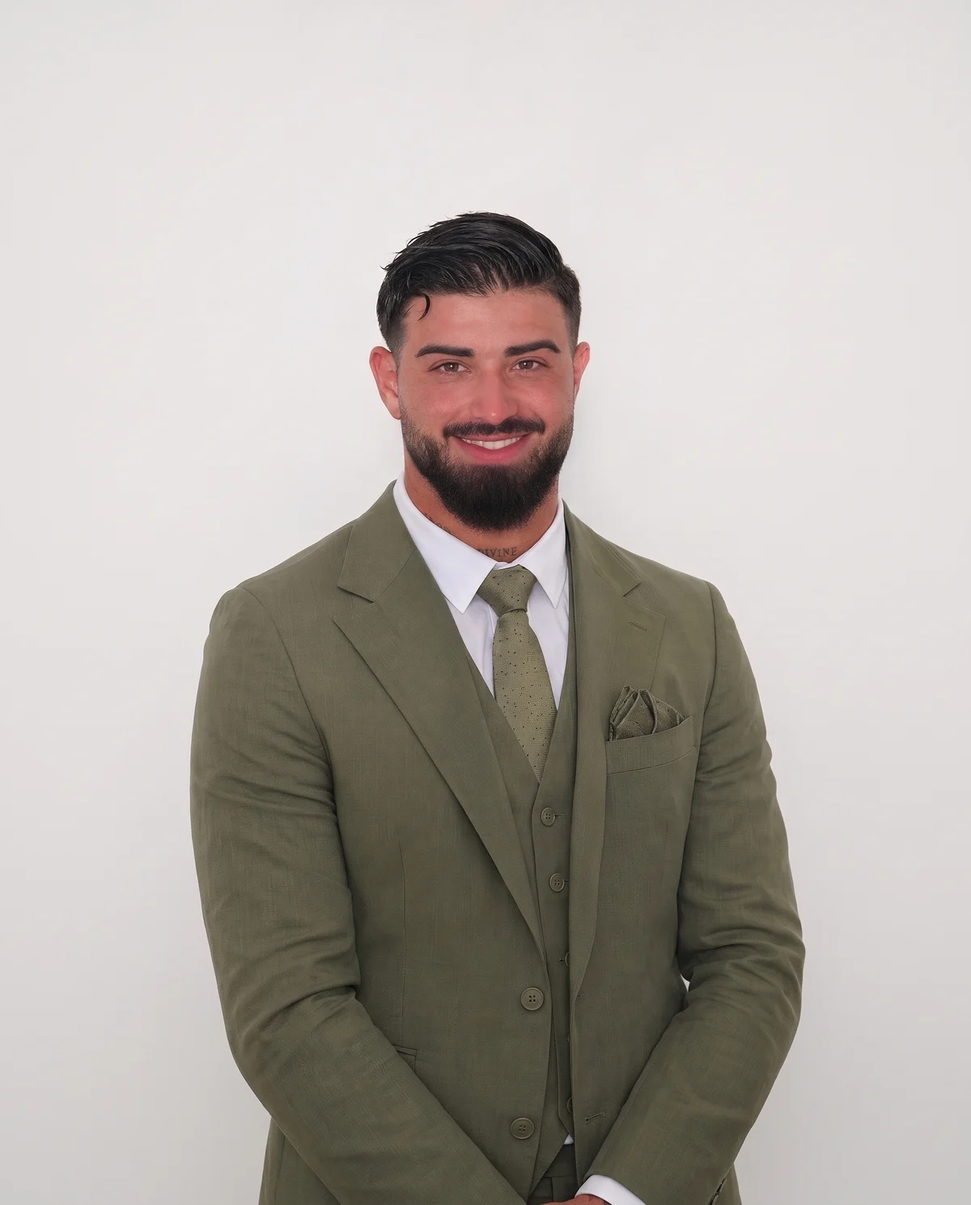
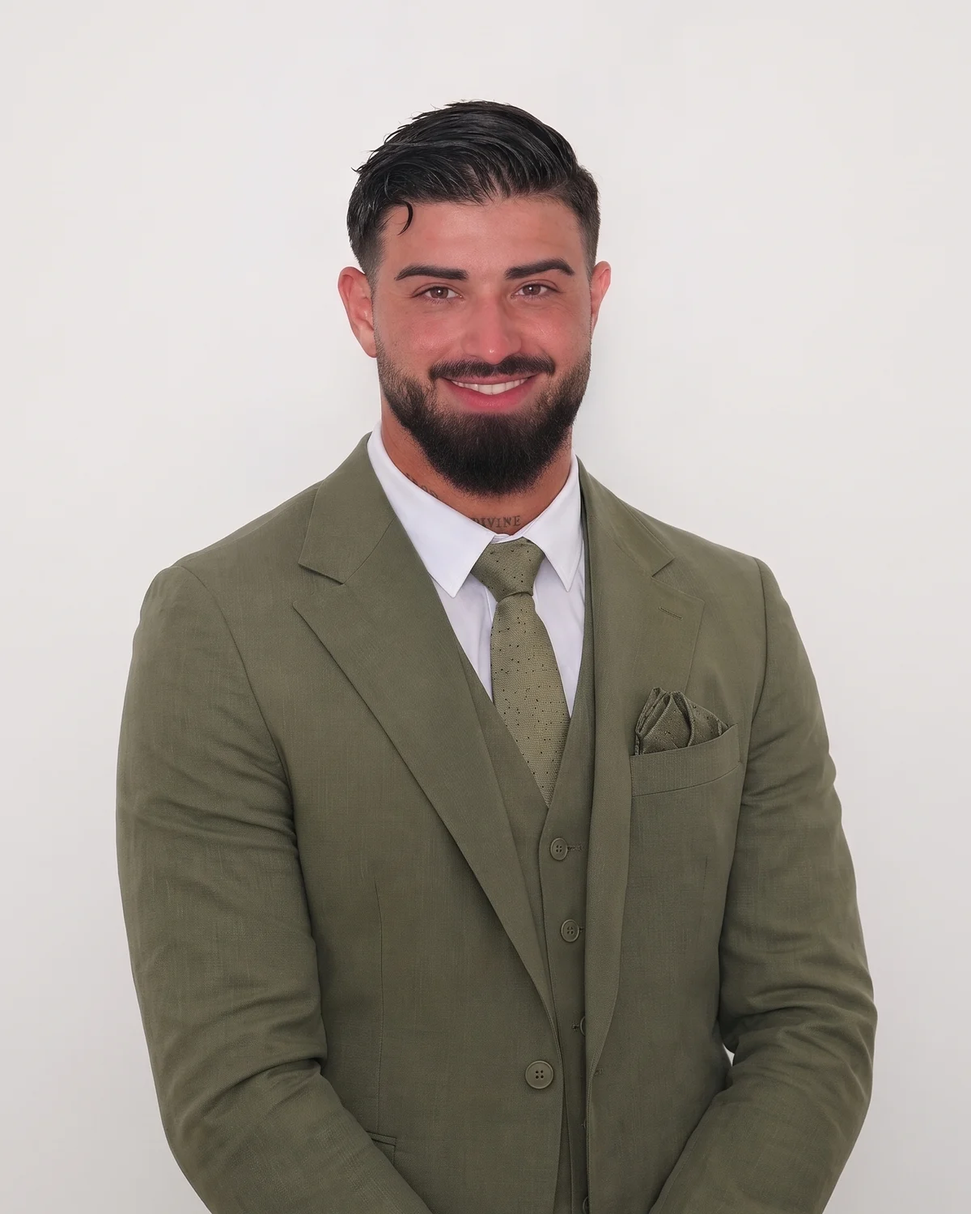
Abschlussblock mit Foto, Ästhetik-Bilder, Über mich ausgebaut, «Ehrliche Zahlen statt Garantien»
Claude-Session: https://claude.ai/code/session_01R2qRtXccSh7gxv6BgYz1Gu

diff --git a/faq.html b/faq.html
@@ -51,10 +51,10 @@
       <figure class="ph-fig"><img src="img/faq.webp" alt="Rosafarbene Pflegeprodukte und ein Pinsel auf hellem Untergrund" width="1600" height="1067" fetchpriority="high"><figcaption>Symbolbild</figcaption></figure>
     </div>
   </div>
-</section><span id="mehr"></span><section class="sec" style="padding-top:0" aria-label="Fragen und Antworten"><div class="wrap"><div style="max-width:860px;margin:0 auto"><p class="faq-grp">Allgemein</p><div class="faq"><details><summary>Gibt es Ranking-Garantien?</summary><div class="ans">Nein. Eine gute Platzierung ist das Ziel, kein Versprechen. Das kann ehrlicherweise niemand garantieren. Dafür sehen Sie jeden Monat klare Zahlen.</div></details><details><summary>Was kostet das?</summary><div class="ans">Das hängt davon ab, was Ihre Praxis braucht: neue Website oder Upgrade, wie viele Behandlungen, wie viel laufende Betreuung. Nach dem kostenlosen Check bekommen Sie ein klares Angebot.</div></details><details><summary>Für wen ist Seenery gedacht?</summary><div class="ans">Für Ästhetikpraxen, Laser- und Kosmetikinstitute und Beauty-Studios mit Team, die mehr neue Kundinnen und Kunden gewinnen wollen. Der Schwerpunkt liegt in der Region Zürich, gearbeitet wird für die ganze Schweiz.</div></details><details><summary>Mit wem arbeite ich zusammen?</summary><div class="ans">Immer direkt mit mir, James Alves Da Silva. Kein Ticket-System und keine wechselnden Projektleiter.</div></details></div><p class="faq-grp">Website</p><div class="faq"><details><summary>Wie schnell geht das?</summary><div class="ans">Ihren ersten Entwurf sehen Sie nach wenigen Tagen. Wann alles online geht, hängt vom Umfang ab und davon, wie schnell Fotos, Texte, Freigaben und Zugänge da sind. Den Termin halten wir im Angebot verbindlich fest.</div></details><details><summary>Wir haben schon eine Website. Brauchen wir eine neue?</summary><div class="ans">Nicht unbedingt. Hat Ihre Website eine gute Basis, machen wir ein Upgrade und konzentrieren uns auf Google, Bewertungen und ChatGPT.</div></details><details><summary>Gehören uns Domain, Website und Google-Profil?</summary><div class="ans">Ja. Domain und Google-Profil laufen auf Ihren Namen. Design und Texte Ihrer Website dürfen Sie nach Bezahlung des Setups auch nach Vertragsende unbeschränkt nutzen.</div></details></div><p class="faq-grp">Google und ChatGPT</p><div class="faq"><details><summary>Was ist der Unterschied zwischen SEO und GEO?</summary><div class="ans">SEO bedeutet: bei Google gefunden werden. GEO bedeutet: von KI-Assistenten wie ChatGPT verstanden und genannt werden. Ich arbeite an beidem.</div></details><details><summary>Wann sieht man Ergebnisse?</summary><div class="ans">Erste Veränderungen können sich nach einigen Wochen zeigen. Gute Platzierungen bei Google brauchen meist mehrere Monate.</div></details><details><summary>Dürfen wir um Bewertungen bitten?</summary><div class="ans">Ja, freundlich und ohne Gegenleistung. Belohnungen für Bewertungen sind bei Google nicht erlaubt.</div></details></div><p class="faq-grp">Zusammenarbeit</p><div class="faq"><details><summary>Wie viel Zeit braucht das von uns?</summary><div class="ans">Am Anfang etwa ein bis zwei Stunden für Fotos, Freigaben und Zugänge. Danach übernehme ich die laufende Arbeit.</div></details><details><summary>Kommen Sie auch vorbei?</summary><div class="ans">Ja, in der Region Zürich gerne persönlich. In der übrigen Schweiz per Video und Telefon.</div></details><details><summary>Was passiert nach dem Gratis-Check?</summary><div class="ans">Sie bekommen sofort eine Bestätigung per E-Mail. Innert zwei Werktagen rufe ich Sie an und wir besprechen das Ergebnis, ohne Verkaufsdruck.</div></details></div></div></div></section>
+</section><span id="mehr"></span><section class="sec" style="padding-top:0" aria-label="Fragen und Antworten"><div class="wrap"><div style="max-width:860px;margin:0 auto"><p class="faq-grp">Allgemein</p><div class="faq"><details><summary>Gibt es Ranking-Garantien?</summary><div class="ans">Nein. Eine gute Platzierung ist das Ziel, aber keine Garantie. Das kann ehrlicherweise niemand garantieren. Dafür sehen Sie jeden Monat klare Zahlen.</div></details><details><summary>Was kostet das?</summary><div class="ans">Das hängt davon ab, was Ihre Praxis braucht: neue Website oder Upgrade, wie viele Behandlungen, wie viel laufende Betreuung. Nach dem kostenlosen Check bekommen Sie ein klares Angebot.</div></details><details><summary>Für wen ist Seenery gedacht?</summary><div class="ans">Für Ästhetikpraxen, Laser- und Kosmetikinstitute und Beauty-Studios mit Team, die mehr neue Kundinnen und Kunden gewinnen wollen. Der Schwerpunkt liegt in der Region Zürich, gearbeitet wird für die ganze Schweiz.</div></details><details><summary>Mit wem arbeite ich zusammen?</summary><div class="ans">Immer direkt mit mir, James Alves Da Silva. Kein Ticket-System und keine wechselnden Projektleiter.</div></details></div><p class="faq-grp">Website</p><div class="faq"><details><summary>Wie schnell geht das?</summary><div class="ans">Ihren ersten Entwurf sehen Sie nach wenigen Tagen. Wann alles online geht, hängt vom Umfang ab und davon, wie schnell Fotos, Texte, Freigaben und Zugänge da sind. Den Termin halten wir im Angebot verbindlich fest.</div></details><details><summary>Wir haben schon eine Website. Brauchen wir eine neue?</summary><div class="ans">Nicht unbedingt. Hat Ihre Website eine gute Basis, machen wir ein Upgrade und konzentrieren uns auf Google, Bewertungen und ChatGPT.</div></details><details><summary>Gehören uns Domain, Website und Google-Profil?</summary><div class="ans">Ja. Domain und Google-Profil laufen auf Ihren Namen. Design und Texte Ihrer Website dürfen Sie nach Bezahlung des Setups auch nach Vertragsende unbeschränkt nutzen.</div></details></div><p class="faq-grp">Google und ChatGPT</p><div class="faq"><details><summary>Was ist der Unterschied zwischen SEO und GEO?</summary><div class="ans">SEO bedeutet: bei Google gefunden werden. GEO bedeutet: von KI-Assistenten wie ChatGPT verstanden und genannt werden. Ich arbeite an beidem.</div></details><details><summary>Wann sieht man Ergebnisse?</summary><div class="ans">Erste Veränderungen können sich nach einigen Wochen zeigen. Gute Platzierungen bei Google brauchen meist mehrere Monate.</div></details><details><summary>Dürfen wir um Bewertungen bitten?</summary><div class="ans">Ja, freundlich und ohne Gegenleistung. Belohnungen für Bewertungen sind bei Google nicht erlaubt.</div></details></div><p class="faq-grp">Zusammenarbeit</p><div class="faq"><details><summary>Wie viel Zeit braucht das von uns?</summary><div class="ans">Am Anfang etwa ein bis zwei Stunden für Fotos, Freigaben und Zugänge. Danach übernehme ich die laufende Arbeit.</div></details><details><summary>Kommen Sie auch vorbei?</summary><div class="ans">Ja, in der Region Zürich gerne persönlich. In der übrigen Schweiz per Video und Telefon.</div></details><details><summary>Was passiert nach dem Gratis-Check?</summary><div class="ans">Sie bekommen sofort eine Bestätigung per E-Mail. Innert zwei Werktagen rufe ich Sie an und wir besprechen das Ergebnis, ohne Verkaufsdruck.</div></details></div></div></div></section>
 <section class="cta" aria-labelledby="cta-t"><div class="wrap"><div class="cta-in">
   <div><p class="eyebrow" style="color:var(--acc-soft)">Gratis Sichtbarkeits-Check</p><h2 id="cta-t">Wie sichtbar ist Ihre Praxis heute?</h2><p>Ich prüfe Google, ChatGPT und Ihre Website und zeige Ihnen das Ergebnis persönlich. Kostenlos und unverbindlich.</p></div>
-  <div class="cta-side"><a class="btn btn-acc" href="sichtbarkeits-check.html">Check anfragen <span aria-hidden="true">→</span></a><div class="direct"><span>Lieber direkt?</span><a href="tel:+41763391398">076 339 13 98</a><a href="mailto:info@seenery.ch">info@seenery.ch</a></div></div>
+  <div class="cta-side"><div class="cta-me"><img src="img/james-kopf.webp" width="240" height="240" alt="James Alves Da Silva" loading="lazy"><p><b>James Alves Da Silva</b>Ich prüfe Ihre Praxis persönlich und melde mich direkt bei Ihnen.</p></div><a class="btn btn-acc" href="sichtbarkeits-check.html">Check anfragen <span aria-hidden="true">→</span></a><div class="direct"><span>Lieber direkt?</span><a href="tel:+41763391398">076 339 13 98</a><a href="mailto:info@seenery.ch">info@seenery.ch</a></div></div>
 </div></div></section>
 </main>
 <footer class="ft">

diff --git a/aesthetikpraxen.html b/aesthetikpraxen.html
@@ -54,9 +54,9 @@
 </section><span id="mehr"></span>
 <section class="sec" style="padding-top:0" aria-labelledby="sit-t"><div class="wrap"><div class="split rev">
   <div class="sp-copy"><p class="eyebrow">Die Ausgangslage</p><h2 id="sit-t">Ausgezeichnete Bewertungen, aber online zu leise.</h2><div class="body"><p>Viele Praxen haben hervorragende Bewertungen, ein starkes Instagram und zufriedene Stammpatientinnen. Trotzdem nennt ChatGPT andere Namen, und bei Google erscheint zuerst die Praxis mit dem vollständigeren Profil.</p><p>Dazu kommt: Werbung für ästhetische Medizin hat in der Schweiz klare Grenzen. Ich schreibe Ihre Inhalte mit Blick auf diese Regeln. Die fachliche Freigabe bleibt immer bei Ihnen.</p></div></div>
-  <figure class="sp-fig"><img src="img/aesth-2.webp" alt="Hautanalyse des Gesichts unter einer beleuchteten Lupenlampe" width="1600" height="1067" loading="lazy"></figure>
+  <figure class="sp-fig"><img src="img/beratung.webp" alt="Patientin im Behandlungsstuhl einer Ästhetikpraxis betrachtet sich im Handspiegel" width="1600" height="1067" loading="lazy"></figure>
 </div></div></section>
-<section class="sec tight" style="padding-top:0" aria-labelledby="g-t"><div class="wrap"><div class="head center narrow"><p class="eyebrow">Was Patientinnen sehen wollen</p><h2 id="g-t">Ruhe, Kompetenz, Vertrauen.</h2><p class="lead">Auf Ihrer Website zeigen wir, was Ihre Praxis ausmacht: Beratung, Räume, Team und Sorgfalt. Ohne Vorher-Nachher-Bilder, mit echten Momenten.</p></div><div class="gallery g4" role="group" aria-label="Bildbeispiele Ästhetikpraxis"><figure><img src="img/natural.webp" alt="Natürliches Porträt einer jungen Frau mit klarer Haut" width="1600" height="1067" loading="lazy" style="object-position:center 30%"><figcaption>Natürlichkeit</figcaption></figure><figure><img src="img/aesth-5.webp" alt="Weisse Serumflasche mit goldener Pipette auf Marmor" width="1600" height="1067" loading="lazy" style="object-position:center"><figcaption>Hautpflege</figcaption></figure><figure><img src="img/aesth-3.webp" alt="Heller Praxisraum mit Lounge und Behandlungskabine" width="1600" height="1067" loading="lazy" style="object-position:center"><figcaption>Praxisräume</figcaption></figure><figure><img src="img/c-room3.webp" alt="Eleganter, heller Raum mit weissem Lederstuhl und Spiegel" width="1600" height="1067" loading="lazy" style="object-position:center"><figcaption>Ambiente</figcaption></figure></div></div></section>
+<section class="sec tight" style="padding-top:0" aria-labelledby="g-t"><div class="wrap"><div class="head center narrow"><p class="eyebrow">Was Patientinnen sehen wollen</p><h2 id="g-t">Ruhe, Kompetenz, Vertrauen.</h2><p class="lead">Auf Ihrer Website zeigen wir, was Ihre Praxis ausmacht: Beratung, Räume, Team und Sorgfalt. Ohne Vorher-Nachher-Bilder, mit echten Momenten.</p></div><div class="gallery g4" role="group" aria-label="Bildbeispiele Ästhetikpraxis"><figure><img src="img/kontur.webp" alt="Porträt einer Frau mit feiner Linie entlang der Gesichtskontur" width="1600" height="1067" loading="lazy" style="object-position:center 30%"><figcaption>Gesichtskontur</figcaption></figure><figure><img src="img/behandlung.webp" alt="Behandlerin mit Handschuhen bei einer Injektionsbehandlung" width="1600" height="1067" loading="lazy" style="object-position:60% center"><figcaption>Behandlung</figcaption></figure><figure><img src="img/aesth-3.webp" alt="Heller Praxisraum mit Lounge und Behandlungskabine" width="1600" height="1067" loading="lazy" style="object-position:center"><figcaption>Praxisräume</figcaption></figure><figure><img src="img/c-room3.webp" alt="Eleganter, heller Raum mit weissem Lederstuhl und Spiegel" width="1600" height="1067" loading="lazy" style="object-position:center"><figcaption>Ambiente</figcaption></figure></div></div></section>
 <section class="sec soft" aria-labelledby="ch-t"><div class="wrap"><div class="head center narrow"><p class="eyebrow">So wird gesucht</p><h2 id="ch-t">Wonach Patientinnen suchen</h2><p class="lead">Beispiele für Suchanfragen, wie sie Menschen in der Region Zürich eingeben. Für genau diese Momente entstehen Ihre Seiten.</p></div><div class="chips"><span>Faltenbehandlung Zürich</span><span>Ästhetische Medizin Zürich</span><span>Hautverjüngung</span><span>Hautcheck Zürich</span><span>Lippenbehandlung Zürich</span><span>Narbenbehandlung</span><span>Ästhetik Praxis in meiner Nähe</span><span>Hautarzt Zürich Termin</span></div></div></section>
 <section class="sec" aria-labelledby="nd-t"><div class="wrap"><div class="head center narrow"><p class="eyebrow">Was ich für Sie tue</p><h2 id="nd-t">Alles, was es für mehr Termine braucht.</h2></div><ul class="checks"><li><div><b>Eine Seite pro Behandlung</b><span>Mit Ablauf, Dauer, Ausfallzeit, häufigen Fragen und Termin-Knopf.</span></div></li><li><div><b>Online-Termin mit OneDoc</b><span>Ihr bestehendes Buchungssystem wird sauber eingebunden.</span></div></li><li><div><b>Ärztinnen und Team sichtbar</b><span>Qualifikationen, Schwerpunkte und Porträts schaffen Vertrauen.</span></div></li><li><div><b>Google-Profil komplett</b><span>Alle Behandlungen, Fotos, Öffnungszeiten und regelmässige Beiträge.</span></div></li><li><div><b>Bewertungs-System</b><span>Ihr Team bittet nach jedem Termin um eine ehrliche Bewertung.</span></div></li><li><div><b>Sichtbarkeit in ChatGPT</b><span>Klare Fakten zu Praxis, Team und Behandlungen, monatlich getestet.</span></div></li><li><div><b>Deutsch und Englisch</b><span>Für internationale Patientinnen auf Wunsch zweisprachig.</span></div></li><li><div><b>Monatsbericht</b><span>Anfragen, Anrufe, Bewertungen, Positionen und ChatGPT-Test.</span></div></li></ul></div></section>
 <section class="sec deep" aria-labelledby="wr-t"><div class="wrap">
@@ -72,7 +72,7 @@
 <section class="sec tight" aria-labelledby="rel-t"><div class="wrap"><div class="head center narrow"><p class="eyebrow">Auch interessant</p><h2 id="rel-t">Weitere Bereiche.</h2></div><div class="grid2"><a class="card text" href="laser-kosmetikinstitute.html"><div class="cb"><span class="num">Für</span><h3>Laser- & Kosmetikinstitute</h3><p>Viele Behandlungen, für jede eine klare Seite</p><span class="go">Mehr erfahren →</span></div></a><a class="card text" href="lash-brow-nails-studios.html"><div class="cb"><span class="num">Für</span><h3>Lash-, Brow- & Nail-Studios</h3><p>Für Studios mit Team: Online-Buchung statt DM-Chaos</p><span class="go">Mehr erfahren →</span></div></a></div></div></section>
 <section class="cta" aria-labelledby="cta-t"><div class="wrap"><div class="cta-in">
   <div><p class="eyebrow" style="color:var(--acc-soft)">Gratis Sichtbarkeits-Check</p><h2 id="cta-t">Wie sichtbar ist Ihre Praxis heute?</h2><p>Ich prüfe Google, ChatGPT und Ihre Website und zeige Ihnen das Ergebnis persönlich. Kostenlos und unverbindlich.</p></div>
-  <div class="cta-side"><a class="btn btn-acc" href="sichtbarkeits-check.html">Check anfragen <span aria-hidden="true">→</span></a><div class="direct"><span>Lieber direkt?</span><a href="tel:+41763391398">076 339 13 98</a><a href="mailto:info@seenery.ch">info@seenery.ch</a></div></div>
+  <div class="cta-side"><div class="cta-me"><img src="img/james-kopf.webp" width="240" height="240" alt="James Alves Da Silva" loading="lazy"><p><b>James Alves Da Silva</b>Ich prüfe Ihre Praxis persönlich und melde mich direkt bei Ihnen.</p></div><a class="btn btn-acc" href="sichtbarkeits-check.html">Check anfragen <span aria-hidden="true">→</span></a><div class="direct"><span>Lieber direkt?</span><a href="tel:+41763391398">076 339 13 98</a><a href="mailto:info@seenery.ch">info@seenery.ch</a></div></div>
 </div></div></section>
 </main>
 <footer class="ft">

diff --git a/ueber-mich.html b/ueber-mich.html
@@ -48,14 +48,15 @@
     <nav class="crumbs" aria-label="Brotkrumen"><ol><li><a href="index.html">Start</a></li><li aria-current="page">Über mich</li></ol></nav>
     <div class="ph-grid">
       <div class="ph-copy"><p class="eyebrow">Über mich</p><h1 id="h1">Ein Ansprechpartner.<span class="l2">Kein Agentur-Apparat.</span></h1><p class="lead">Ich bin James Alves Da Silva, Gründer von Seenery Agency in Dübendorf. Ich arbeite mit Praxen und Studios, die nicht lauter, sondern besser gefunden werden wollen.</p><div class="btns"><a class="btn btn-deep" href="sichtbarkeits-check.html">Gratis-Check anfragen <span aria-hidden="true">→</span></a><a class="btn btn-line" href="#mehr">Mehr erfahren</a></div></div>
-      <figure class="portrait has-img"><img src="img/james.webp" width="1200" height="1490" alt="James Alves Da Silva, Gründer von Seenery Agency" loading="eager"><figcaption><b>James Alves Da Silva</b>Gründer · Dübendorf</figcaption></figure>
+      <figure class="portrait has-img"><img src="img/james.webp" width="1200" height="1500" alt="James Alves Da Silva, Gründer von Seenery Agency" loading="eager"><figcaption><b>James Alves Da Silva</b>Gründer · Dübendorf</figcaption></figure>
     </div>
   </div>
 </section><span id="mehr"></span><section class="sec" style="padding-top:0" aria-labelledby="st-t"><div class="wrap narrow" style="max-width:820px">
   <p class="eyebrow">Meine Geschichte</p><h2 id="st-t">Warum es Seenery gibt.</h2>
-  <div style="margin-top:22px;color:var(--muted);font-size:18px"><p>Ich habe Menschen als Personal Trainer begleitet und dabei gemerkt, was mich antreibt: anderen zu helfen, ihr Bestes zu zeigen. Heute mache ich das für Praxen und Studios in der Region Zürich.</p>
-  <p>Gelernt habe ich Industriemechanik, danach habe ich im Verkauf gearbeitet. Daher kommt mein Anspruch an Präzision, und ich weiss, dass gutes Zuhören jedem Verkauf vorausgeht.</p>
-  <p>Ich baue selbst ein Unternehmen auf und weiss, wie sich Wachstum anfühlt. Genau das wünsche ich mir für meine Kundinnen: mehr Menschen, die ihre Arbeit erleben, ein Team, das wachsen kann, und eine Agenda, die Wochen im Voraus gefüllt ist.</p></div>
+  <div style="margin-top:22px;color:var(--muted);font-size:18px"><p>Bevor ich Seenery gegründet habe, war ich als Personal Trainer im Premium-Bereich tätig. Dort habe ich gelernt, was Menschen brauchen, um sich für jemanden zu entscheiden: Vertrauen, einen klaren Plan und Fortschritte, die man sieht. Genau das braucht auch eine Praxis, damit eine neue Patientin den ersten Termin bucht. Heute helfe ich Praxen und Studios in der Region Zürich, diesen ersten Eindruck online richtig zu machen.</p>
+  <p>Meine Wurzeln liegen in der Industriemechanik. Sechs Jahre lang habe ich dort gearbeitet, wo es auf Genauigkeit ankommt und kleine Fehler grosse Folgen haben. Diesen Anspruch nehme ich mit: Bei mir stimmen Öffnungszeiten, Adresse, Behandlungen und Telefonnummer überall überein, auf der Website, im Google-Profil und in den Antworten von ChatGPT. Für Google ist genau diese Einheitlichkeit ein wichtiges Signal.</p>
+  <p>Danach habe ich zwei Jahre im Verkauf gearbeitet. Dort habe ich gelernt, dass gutes Zuhören jedem Abschluss vorausgeht. Deshalb beginnt jedes Projekt bei mir mit Fragen statt mit Vorlagen: Welche Behandlungen sollen wachsen? Welche Patientinnen möchten Sie erreichen? Und was soll eine Frau fühlen, wenn sie Ihre Website zum ersten Mal auf dem Handy öffnet?</p>
+  <p>Ich baue selbst ein Unternehmen auf und weiss, wie sich Wachstum anfühlt, mit allen Fragen, die dazugehören. Genau das wünsche ich mir für meine Kundinnen und Kunden: mehr Menschen, die ihre Arbeit erleben, ein Team, das wachsen kann, und eine Agenda, die Wochen im Voraus gefüllt ist. Ohne dass Sie sich selbst um Technik, Texte und Google kümmern müssen.</p></div>
   <blockquote class="quote"><p>«Wenn eine Praxis wächst, wächst ihr Team, und mehr Menschen finden zu der Behandlung, die sie suchen.»</p><cite>James Alves Da Silva</cite></blockquote>
 </div></section>
 <section class="sec soft" aria-labelledby="hw-t"><div class="wrap"><div class="head center narrow"><p class="eyebrow">Wie ich arbeite</p><h2 id="hw-t">Drei Dinge, auf die Sie zählen können.</h2></div>
@@ -68,7 +69,7 @@
 <div class="facts"><div class="fact"><b>Dübendorf</b><span>Sitz, nahe Zürich</span></div><div class="fact"><b>Ganze Schweiz</b><span>Region Zürich auch persönlich vor Ort</span></div><div class="fact"><b>1 Ansprechpartner</b><span>Von Check bis Bericht</span></div><div class="fact"><b>Deutsch &amp; Englisch</b><span>Websites auf Wunsch zweisprachig</span></div></div></div></section>
 <section class="cta" aria-labelledby="cta-t"><div class="wrap"><div class="cta-in">
   <div><p class="eyebrow" style="color:var(--acc-soft)">Gratis Sichtbarkeits-Check</p><h2 id="cta-t">Wie sichtbar ist Ihre Praxis heute?</h2><p>Ich prüfe Google, ChatGPT und Ihre Website und zeige Ihnen das Ergebnis persönlich. Kostenlos und unverbindlich.</p></div>
-  <div class="cta-side"><a class="btn btn-acc" href="sichtbarkeits-check.html">Check anfragen <span aria-hidden="true">→</span></a><div class="direct"><span>Lieber direkt?</span><a href="tel:+41763391398">076 339 13 98</a><a href="mailto:info@seenery.ch">info@seenery.ch</a></div></div>
+  <div class="cta-side"><div class="cta-me"><img src="img/james-kopf.webp" width="240" height="240" alt="James Alves Da Silva" loading="lazy"><p><b>James Alves Da Silva</b>Ich prüfe Ihre Praxis persönlich und melde mich direkt bei Ihnen.</p></div><a class="btn btn-acc" href="sichtbarkeits-check.html">Check anfragen <span aria-hidden="true">→</span></a><div class="direct"><span>Lieber direkt?</span><a href="tel:+41763391398">076 339 13 98</a><a href="mailto:info@seenery.ch">info@seenery.ch</a></div></div>
 </div></div></section>
 </main>
 <footer class="ft">

diff --git a/index.html b/index.html
@@ -50,7 +50,7 @@
       <h1 id="h1">Ihr Ruf ist ausgezeichnet.<span class="l2">Online sieht man davon zu wenig.</span></h1>
       <p class="lead">Patientinnen entscheiden heute bei Google und ChatGPT, bevor sie anrufen. Ich sorge dafür, dass sie Sie dort finden, Ihnen vertrauen und direkt einen Termin anfragen.</p>
       <div class="btns"><a class="btn btn-deep" href="sichtbarkeits-check.html">Gratis Sichtbarkeits-Check <span aria-hidden="true">→</span></a><a class="btn btn-line" href="#test">Der 30-Sekunden-Test</a></div>
-      <div class="hero-note"><span>Gesehen. Gebucht. Gewachsen.</span><span>Ein Ansprechpartner</span><span>Keine Ranking-Versprechen</span><span>Monatsbericht mit klaren Zahlen</span></div>
+      <div class="hero-note"><span>Gesehen. Gebucht. Gewachsen.</span><span>Ein Ansprechpartner</span><span>Ehrliche Zahlen statt Garantien</span><span>Monatsbericht mit klaren Zahlen</span></div>
     </div>
     <div class="stage" role="img" aria-label="Beispiel: Praxis-Website auf dem Laptop, Google-Profil auf dem Handy und eine Antwort von ChatGPT, in der die Praxis genannt wird">
   <span class="tag" aria-hidden="true">Beispiel</span>
@@ -153,12 +153,12 @@
 
 <section class="sec" aria-labelledby="fq-t"><div class="wrap">
   <div class="head center narrow"><p class="eyebrow">Häufige Fragen</p><h2 id="fq-t">Ehrliche Antworten.</h2></div>
-  <div class="faq"><details><summary>Gibt es Ranking-Garantien?</summary><div class="ans">Nein. Eine gute Platzierung ist das Ziel, kein Versprechen. Das kann ehrlicherweise niemand garantieren. Dafür sehen Sie jeden Monat klare Zahlen.</div></details><details><summary>Was kostet das?</summary><div class="ans">Das hängt davon ab, was Ihre Praxis braucht: neue Website oder Upgrade, wie viele Behandlungen, wie viel laufende Betreuung. Nach dem kostenlosen Check bekommen Sie ein klares Angebot.</div></details><details><summary>Wir haben schon eine Website. Brauchen wir eine neue?</summary><div class="ans">Nicht unbedingt. Hat Ihre Website eine gute Basis, machen wir ein Upgrade und konzentrieren uns auf Google, Bewertungen und ChatGPT.</div></details><details><summary>Mit wem arbeite ich zusammen?</summary><div class="ans">Immer direkt mit mir, James Alves Da Silva. Kein Ticket-System und keine wechselnden Projektleiter.</div></details></div>
+  <div class="faq"><details><summary>Gibt es Ranking-Garantien?</summary><div class="ans">Nein. Eine gute Platzierung ist das Ziel, aber keine Garantie. Das kann ehrlicherweise niemand garantieren. Dafür sehen Sie jeden Monat klare Zahlen.</div></details><details><summary>Was kostet das?</summary><div class="ans">Das hängt davon ab, was Ihre Praxis braucht: neue Website oder Upgrade, wie viele Behandlungen, wie viel laufende Betreuung. Nach dem kostenlosen Check bekommen Sie ein klares Angebot.</div></details><details><summary>Wir haben schon eine Website. Brauchen wir eine neue?</summary><div class="ans">Nicht unbedingt. Hat Ihre Website eine gute Basis, machen wir ein Upgrade und konzentrieren uns auf Google, Bewertungen und ChatGPT.</div></details><details><summary>Mit wem arbeite ich zusammen?</summary><div class="ans">Immer direkt mit mir, James Alves Da Silva. Kein Ticket-System und keine wechselnden Projektleiter.</div></details></div>
   <div class="btns c"><a class="btn btn-line" href="faq.html">Alle Fragen ansehen</a></div>
 </div></section>
 <section class="cta" aria-labelledby="cta-t"><div class="wrap"><div class="cta-in">
   <div><p class="eyebrow" style="color:var(--acc-soft)">Gratis Sichtbarkeits-Check</p><h2 id="cta-t">Wie sichtbar ist Ihre Praxis heute?</h2><p>Ich prüfe Google, ChatGPT und Ihre Website und zeige Ihnen das Ergebnis persönlich. Kostenlos und unverbindlich.</p></div>
-  <div class="cta-side"><a class="btn btn-acc" href="sichtbarkeits-check.html">Check anfragen <span aria-hidden="true">→</span></a><div class="direct"><span>Lieber direkt?</span><a href="tel:+41763391398">076 339 13 98</a><a href="mailto:info@seenery.ch">info@seenery.ch</a></div></div>
+  <div class="cta-side"><div class="cta-me"><img src="img/james-kopf.webp" width="240" height="240" alt="James Alves Da Silva" loading="lazy"><p><b>James Alves Da Silva</b>Ich prüfe Ihre Praxis persönlich und melde mich direkt bei Ihnen.</p></div><a class="btn btn-acc" href="sichtbarkeits-check.html">Check anfragen <span aria-hidden="true">→</span></a><div class="direct"><span>Lieber direkt?</span><a href="tel:+41763391398">076 339 13 98</a><a href="mailto:info@seenery.ch">info@seenery.ch</a></div></div>
 </div></div></section>
 </main>
 <footer class="ft">

diff --git a/google-bewertungen.html b/google-bewertungen.html
@@ -66,7 +66,7 @@
 <section class="sec tight" aria-labelledby="rel-t"><div class="wrap"><div class="head center narrow"><p class="eyebrow">Weitere Leistungen</p><h2 id="rel-t">Was zusammen wirkt.</h2></div><div class="grid3"><a class="card text" href="website-mit-online-termin.html"><div class="cb"><span class="num">Leistung</span><h3>Website mit Online-Termin</h3><p>Eigenes Design, eine Seite pro Behandlung</p><span class="go">Mehr erfahren →</span></div></a><a class="card text" href="google-unternehmensprofil.html"><div class="cb"><span class="num">Leistung</span><h3>Google-Unternehmensprofil</h3><p>Gefunden werden, wo «in der Nähe» gesucht wird</p><span class="go">Mehr erfahren →</span></div></a><a class="card text" href="seo-zuerich.html"><div class="cb"><span class="num">Leistung</span><h3>SEO für Zürich</h3><p>Bei Google für Ihre Behandlungen gefunden werden</p><span class="go">Mehr erfahren →</span></div></a></div></div></section>
 <section class="cta" aria-labelledby="cta-t"><div class="wrap"><div class="cta-in">
   <div><p class="eyebrow" style="color:var(--acc-soft)">Gratis Sichtbarkeits-Check</p><h2 id="cta-t">Wie sichtbar ist Ihre Praxis heute?</h2><p>Ich prüfe Google, ChatGPT und Ihre Website und zeige Ihnen das Ergebnis persönlich. Kostenlos und unverbindlich.</p></div>
-  <div class="cta-side"><a class="btn btn-acc" href="sichtbarkeits-check.html">Check anfragen <span aria-hidden="true">→</span></a><div class="direct"><span>Lieber direkt?</span><a href="tel:+41763391398">076 339 13 98</a><a href="mailto:info@seenery.ch">info@seenery.ch</a></div></div>
+  <div class="cta-side"><div class="cta-me"><img src="img/james-kopf.webp" width="240" height="240" alt="James Alves Da Silva" loading="lazy"><p><b>James Alves Da Silva</b>Ich prüfe Ihre Praxis persönlich und melde mich direkt bei Ihnen.</p></div><a class="btn btn-acc" href="sichtbarkeits-check.html">Check anfragen <span aria-hidden="true">→</span></a><div class="direct"><span>Lieber direkt?</span><a href="tel:+41763391398">076 339 13 98</a><a href="mailto:info@seenery.ch">info@seenery.ch</a></div></div>
 </div></div></section>
 </main>
 <footer class="ft">

diff --git a/monatsbericht.html b/monatsbericht.html
@@ -69,7 +69,7 @@
 <section class="sec tight" aria-labelledby="rel-t"><div class="wrap"><div class="head center narrow"><p class="eyebrow">Weitere Leistungen</p><h2 id="rel-t">Was zusammen wirkt.</h2></div><div class="grid3"><a class="card text" href="website-mit-online-termin.html"><div class="cb"><span class="num">Leistung</span><h3>Website mit Online-Termin</h3><p>Eigenes Design, eine Seite pro Behandlung</p><span class="go">Mehr erfahren →</span></div></a><a class="card text" href="google-unternehmensprofil.html"><div class="cb"><span class="num">Leistung</span><h3>Google-Unternehmensprofil</h3><p>Gefunden werden, wo «in der Nähe» gesucht wird</p><span class="go">Mehr erfahren →</span></div></a><a class="card text" href="google-bewertungen.html"><div class="cb"><span class="num">Leistung</span><h3>Google-Bewertungen</h3><p>Mehr echte Stimmen nach jedem Termin</p><span class="go">Mehr erfahren →</span></div></a></div></div></section>
 <section class="cta" aria-labelledby="cta-t"><div class="wrap"><div class="cta-in">
   <div><p class="eyebrow" style="color:var(--acc-soft)">Gratis Sichtbarkeits-Check</p><h2 id="cta-t">Wie sichtbar ist Ihre Praxis heute?</h2><p>Ich prüfe Google, ChatGPT und Ihre Website und zeige Ihnen das Ergebnis persönlich. Kostenlos und unverbindlich.</p></div>
-  <div class="cta-side"><a class="btn btn-acc" href="sichtbarkeits-check.html">Check anfragen <span aria-hidden="true">→</span></a><div class="direct"><span>Lieber direkt?</span><a href="tel:+41763391398">076 339 13 98</a><a href="mailto:info@seenery.ch">info@seenery.ch</a></div></div>
+  <div class="cta-side"><div class="cta-me"><img src="img/james-kopf.webp" width="240" height="240" alt="James Alves Da Silva" loading="lazy"><p><b>James Alves Da Silva</b>Ich prüfe Ihre Praxis persönlich und melde mich direkt bei Ihnen.</p></div><a class="btn btn-acc" href="sichtbarkeits-check.html">Check anfragen <span aria-hidden="true">→</span></a><div class="direct"><span>Lieber direkt?</span><a href="tel:+41763391398">076 339 13 98</a><a href="mailto:info@seenery.ch">info@seenery.ch</a></div></div>
 </div></div></section>
 </main>
 <footer class="ft">

diff --git a/seo-zuerich.html b/seo-zuerich.html
@@ -64,7 +64,7 @@
 <section class="sec tight" aria-labelledby="rel-t"><div class="wrap"><div class="head center narrow"><p class="eyebrow">Weitere Leistungen</p><h2 id="rel-t">Was zusammen wirkt.</h2></div><div class="grid3"><a class="card text" href="website-mit-online-termin.html"><div class="cb"><span class="num">Leistung</span><h3>Website mit Online-Termin</h3><p>Eigenes Design, eine Seite pro Behandlung</p><span class="go">Mehr erfahren →</span></div></a><a class="card text" href="google-unternehmensprofil.html"><div class="cb"><span class="num">Leistung</span><h3>Google-Unternehmensprofil</h3><p>Gefunden werden, wo «in der Nähe» gesucht wird</p><span class="go">Mehr erfahren →</span></div></a><a class="card text" href="google-bewertungen.html"><div class="cb"><span class="num">Leistung</span><h3>Google-Bewertungen</h3><p>Mehr echte Stimmen nach jedem Termin</p><span class="go">Mehr erfahren →</span></div></a></div></div></section>
 <section class="cta" aria-labelledby="cta-t"><div class="wrap"><div class="cta-in">
   <div><p class="eyebrow" style="color:var(--acc-soft)">Gratis Sichtbarkeits-Check</p><h2 id="cta-t">Wie sichtbar ist Ihre Praxis heute?</h2><p>Ich prüfe Google, ChatGPT und Ihre Website und zeige Ihnen das Ergebnis persönlich. Kostenlos und unverbindlich.</p></div>
-  <div class="cta-side"><a class="btn btn-acc" href="sichtbarkeits-check.html">Check anfragen <span aria-hidden="true">→</span></a><div class="direct"><span>Lieber direkt?</span><a href="tel:+41763391398">076 339 13 98</a><a href="mailto:info@seenery.ch">info@seenery.ch</a></div></div>
+  <div class="cta-side"><div class="cta-me"><img src="img/james-kopf.webp" width="240" height="240" alt="James Alves Da Silva" loading="lazy"><p><b>James Alves Da Silva</b>Ich prüfe Ihre Praxis persönlich und melde mich direkt bei Ihnen.</p></div><a class="btn btn-acc" href="sichtbarkeits-check.html">Check anfragen <span aria-hidden="true">→</span></a><div class="direct"><span>Lieber direkt?</span><a href="tel:+41763391398">076 339 13 98</a><a href="mailto:info@seenery.ch">info@seenery.ch</a></div></div>
 </div></div></section>
 </main>
 <footer class="ft">

diff --git a/sichtbar-in-chatgpt.html b/sichtbar-in-chatgpt.html
@@ -68,7 +68,7 @@
 <section class="sec tight" aria-labelledby="rel-t"><div class="wrap"><div class="head center narrow"><p class="eyebrow">Weitere Leistungen</p><h2 id="rel-t">Was zusammen wirkt.</h2></div><div class="grid3"><a class="card text" href="website-mit-online-termin.html"><div class="cb"><span class="num">Leistung</span><h3>Website mit Online-Termin</h3><p>Eigenes Design, eine Seite pro Behandlung</p><span class="go">Mehr erfahren →</span></div></a><a class="card text" href="google-unternehmensprofil.html"><div class="cb"><span class="num">Leistung</span><h3>Google-Unternehmensprofil</h3><p>Gefunden werden, wo «in der Nähe» gesucht wird</p><span class="go">Mehr erfahren →</span></div></a><a class="card text" href="google-bewertungen.html"><div class="cb"><span class="num">Leistung</span><h3>Google-Bewertungen</h3><p>Mehr echte Stimmen nach jedem Termin</p><span class="go">Mehr erfahren →</span></div></a></div></div></section>
 <section class="cta" aria-labelledby="cta-t"><div class="wrap"><div class="cta-in">
   <div><p class="eyebrow" style="color:var(--acc-soft)">Gratis Sichtbarkeits-Check</p><h2 id="cta-t">Wie sichtbar ist Ihre Praxis heute?</h2><p>Ich prüfe Google, ChatGPT und Ihre Website und zeige Ihnen das Ergebnis persönlich. Kostenlos und unverbindlich.</p></div>
-  <div class="cta-side"><a class="btn btn-acc" href="sichtbarkeits-check.html">Check anfragen <span aria-hidden="true">→</span></a><div class="direct"><span>Lieber direkt?</span><a href="tel:+41763391398">076 339 13 98</a><a href="mailto:info@seenery.ch">info@seenery.ch</a></div></div>
+  <div class="cta-side"><div class="cta-me"><img src="img/james-kopf.webp" width="240" height="240" alt="James Alves Da Silva" loading="lazy"><p><b>James Alves Da Silva</b>Ich prüfe Ihre Praxis persönlich und melde mich direkt bei Ihnen.</p></div><a class="btn btn-acc" href="sichtbarkeits-check.html">Check anfragen <span aria-hidden="true">→</span></a><div class="direct"><span>Lieber direkt?</span><a href="tel:+41763391398">076 339 13 98</a><a href="mailto:info@seenery.ch">info@seenery.ch</a></div></div>
 </div></div></section>
 </main>
 <footer class="ft">

diff --git a/website-mit-online-termin.html b/website-mit-online-termin.html
@@ -68,7 +68,7 @@
 <section class="sec tight" aria-labelledby="rel-t"><div class="wrap"><div class="head center narrow"><p class="eyebrow">Weitere Leistungen</p><h2 id="rel-t">Was zusammen wirkt.</h2></div><div class="grid3"><a class="card text" href="google-unternehmensprofil.html"><div class="cb"><span class="num">Leistung</span><h3>Google-Unternehmensprofil</h3><p>Gefunden werden, wo «in der Nähe» gesucht wird</p><span class="go">Mehr erfahren →</span></div></a><a class="card text" href="google-bewertungen.html"><div class="cb"><span class="num">Leistung</span><h3>Google-Bewertungen</h3><p>Mehr echte Stimmen nach jedem Termin</p><span class="go">Mehr erfahren →</span></div></a><a class="card text" href="seo-zuerich.html"><div class="cb"><span class="num">Leistung</span><h3>SEO für Zürich</h3><p>Bei Google für Ihre Behandlungen gefunden werden</p><span class="go">Mehr erfahren →</span></div></a></div></div></section>
 <section class="cta" aria-labelledby="cta-t"><div class="wrap"><div class="cta-in">
   <div><p class="eyebrow" style="color:var(--acc-soft)">Gratis Sichtbarkeits-Check</p><h2 id="cta-t">Wie sichtbar ist Ihre Praxis heute?</h2><p>Ich prüfe Google, ChatGPT und Ihre Website und zeige Ihnen das Ergebnis persönlich. Kostenlos und unverbindlich.</p></div>
-  <div class="cta-side"><a class="btn btn-acc" href="sichtbarkeits-check.html">Check anfragen <span aria-hidden="true">→</span></a><div class="direct"><span>Lieber direkt?</span><a href="tel:+41763391398">076 339 13 98</a><a href="mailto:info@seenery.ch">info@seenery.ch</a></div></div>
+  <div class="cta-side"><div class="cta-me"><img src="img/james-kopf.webp" width="240" height="240" alt="James Alves Da Silva" loading="lazy"><p><b>James Alves Da Silva</b>Ich prüfe Ihre Praxis persönlich und melde mich direkt bei Ihnen.</p></div><a class="btn btn-acc" href="sichtbarkeits-check.html">Check anfragen <span aria-hidden="true">→</span></a><div class="direct"><span>Lieber direkt?</span><a href="tel:+41763391398">076 339 13 98</a><a href="mailto:info@seenery.ch">info@seenery.ch</a></div></div>
 </div></div></section>
 </main>
 <footer class="ft">

diff --git a/google-unternehmensprofil.html b/google-unternehmensprofil.html
@@ -67,7 +67,7 @@
 <section class="sec tight" aria-labelledby="rel-t"><div class="wrap"><div class="head center narrow"><p class="eyebrow">Weitere Leistungen</p><h2 id="rel-t">Was zusammen wirkt.</h2></div><div class="grid3"><a class="card text" href="website-mit-online-termin.html"><div class="cb"><span class="num">Leistung</span><h3>Website mit Online-Termin</h3><p>Eigenes Design, eine Seite pro Behandlung</p><span class="go">Mehr erfahren →</span></div></a><a class="card text" href="google-bewertungen.html"><div class="cb"><span class="num">Leistung</span><h3>Google-Bewertungen</h3><p>Mehr echte Stimmen nach jedem Termin</p><span class="go">Mehr erfahren →</span></div></a><a class="card text" href="seo-zuerich.html"><div class="cb"><span class="num">Leistung</span><h3>SEO für Zürich</h3><p>Bei Google für Ihre Behandlungen gefunden werden</p><span class="go">Mehr erfahren →</span></div></a></div></div></section>
 <section class="cta" aria-labelledby="cta-t"><div class="wrap"><div class="cta-in">
   <div><p class="eyebrow" style="color:var(--acc-soft)">Gratis Sichtbarkeits-Check</p><h2 id="cta-t">Wie sichtbar ist Ihre Praxis heute?</h2><p>Ich prüfe Google, ChatGPT und Ihre Website und zeige Ihnen das Ergebnis persönlich. Kostenlos und unverbindlich.</p></div>
-  <div class="cta-side"><a class="btn btn-acc" href="sichtbarkeits-check.html">Check anfragen <span aria-hidden="true">→</span></a><div class="direct"><span>Lieber direkt?</span><a href="tel:+41763391398">076 339 13 98</a><a href="mailto:info@seenery.ch">info@seenery.ch</a></div></div>
+  <div class="cta-side"><div class="cta-me"><img src="img/james-kopf.webp" width="240" height="240" alt="James Alves Da Silva" loading="lazy"><p><b>James Alves Da Silva</b>Ich prüfe Ihre Praxis persönlich und melde mich direkt bei Ihnen.</p></div><a class="btn btn-acc" href="sichtbarkeits-check.html">Check anfragen <span aria-hidden="true">→</span></a><div class="direct"><span>Lieber direkt?</span><a href="tel:+41763391398">076 339 13 98</a><a href="mailto:info@seenery.ch">info@seenery.ch</a></div></div>
 </div></div></section>
 </main>
 <footer class="ft">

diff --git a/ablauf.html b/ablauf.html
@@ -62,7 +62,7 @@
 <section class="sec soft" aria-labelledby="nd-t"><div class="wrap"><div class="head center narrow"><p class="eyebrow">Was ich von Ihnen brauche</p><h2 id="nd-t">Damit es schnell geht.</h2></div><ul class="checks"><li><div><b>Fotos</b><span>Von Räumen, Team und Ihnen. Fehlt etwas, sage ich Ihnen, welche Bilder es braucht.</span></div></li><li><div><b>Zugang zum Google-Profil</b><span>Als Verwalter, jederzeit entziehbar.</span></div></li><li><div><b>Domain und Hosting</b><span>Zugang oder Auftrag zur Übernahme.</span></div></li><li><div><b>Buchungssystem</b><span>Link oder Zugang zu OneDoc, Fresha, Shore oder Ihrem System.</span></div></li><li><div><b>Ihre Behandlungen</b><span>Liste mit den wichtigsten Infos. Die Texte schreibe ich.</span></div></li><li><div><b>Fachliche Freigabe</b><span>Bevor etwas online geht.</span></div></li></ul></div></section>
 <section class="cta" aria-labelledby="cta-t"><div class="wrap"><div class="cta-in">
   <div><p class="eyebrow" style="color:var(--acc-soft)">Gratis Sichtbarkeits-Check</p><h2 id="cta-t">Wie sichtbar ist Ihre Praxis heute?</h2><p>Ich prüfe Google, ChatGPT und Ihre Website und zeige Ihnen das Ergebnis persönlich. Kostenlos und unverbindlich.</p></div>
-  <div class="cta-side"><a class="btn btn-acc" href="sichtbarkeits-check.html">Check anfragen <span aria-hidden="true">→</span></a><div class="direct"><span>Lieber direkt?</span><a href="tel:+41763391398">076 339 13 98</a><a href="mailto:info@seenery.ch">info@seenery.ch</a></div></div>
+  <div class="cta-side"><div class="cta-me"><img src="img/james-kopf.webp" width="240" height="240" alt="James Alves Da Silva" loading="lazy"><p><b>James Alves Da Silva</b>Ich prüfe Ihre Praxis persönlich und melde mich direkt bei Ihnen.</p></div><a class="btn btn-acc" href="sichtbarkeits-check.html">Check anfragen <span aria-hidden="true">→</span></a><div class="direct"><span>Lieber direkt?</span><a href="tel:+41763391398">076 339 13 98</a><a href="mailto:info@seenery.ch">info@seenery.ch</a></div></div>
 </div></div></section>
 </main>
 <footer class="ft">

diff --git a/website-arten.html b/website-arten.html
@@ -56,7 +56,7 @@
 <section class="sec soft" aria-labelledby="wh-t"><div class="wrap"><div class="head center narrow"><p class="eyebrow">Bei allen dabei</p><h2 id="wh-t">Was jede Website mitbringt.</h2></div><ul class="checks"><li><div><b>Online-Termin</b><span>Ihr Buchungssystem sauber eingebunden.</span></div></li><li><div><b>Handy zuerst</b><span>Gestaltet für den Daumen.</span></div></li><li><div><b>Schnelle Ladezeit</b><span>Optimierte Bilder und schlanke Technik.</span></div></li><li><div><b>Gebaut für Google und ChatGPT</b><span>Struktur und Daten, die Maschinen lesen können.</span></div></li><li><div><b>Impressum und Datenschutz</b><span>Die Pflichtseiten gehören dazu.</span></div></li><li><div><b>Ihr Eigentum</b><span>Domain auf Ihren Namen, Nutzung von Design und Texten auch nach Vertragsende.</span></div></li></ul></div></section>
 <section class="cta" aria-labelledby="cta-t"><div class="wrap"><div class="cta-in">
   <div><p class="eyebrow" style="color:var(--acc-soft)">Gratis Sichtbarkeits-Check</p><h2 id="cta-t">Wie sichtbar ist Ihre Praxis heute?</h2><p>Ich prüfe Google, ChatGPT und Ihre Website und zeige Ihnen das Ergebnis persönlich. Kostenlos und unverbindlich.</p></div>
-  <div class="cta-side"><a class="btn btn-acc" href="sichtbarkeits-check.html">Check anfragen <span aria-hidden="true">→</span></a><div class="direct"><span>Lieber direkt?</span><a href="tel:+41763391398">076 339 13 98</a><a href="mailto:info@seenery.ch">info@seenery.ch</a></div></div>
+  <div class="cta-side"><div class="cta-me"><img src="img/james-kopf.webp" width="240" height="240" alt="James Alves Da Silva" loading="lazy"><p><b>James Alves Da Silva</b>Ich prüfe Ihre Praxis persönlich und melde mich direkt bei Ihnen.</p></div><a class="btn btn-acc" href="sichtbarkeits-check.html">Check anfragen <span aria-hidden="true">→</span></a><div class="direct"><span>Lieber direkt?</span><a href="tel:+41763391398">076 339 13 98</a><a href="mailto:info@seenery.ch">info@seenery.ch</a></div></div>
 </div></div></section>
 </main>
 <footer class="ft">
